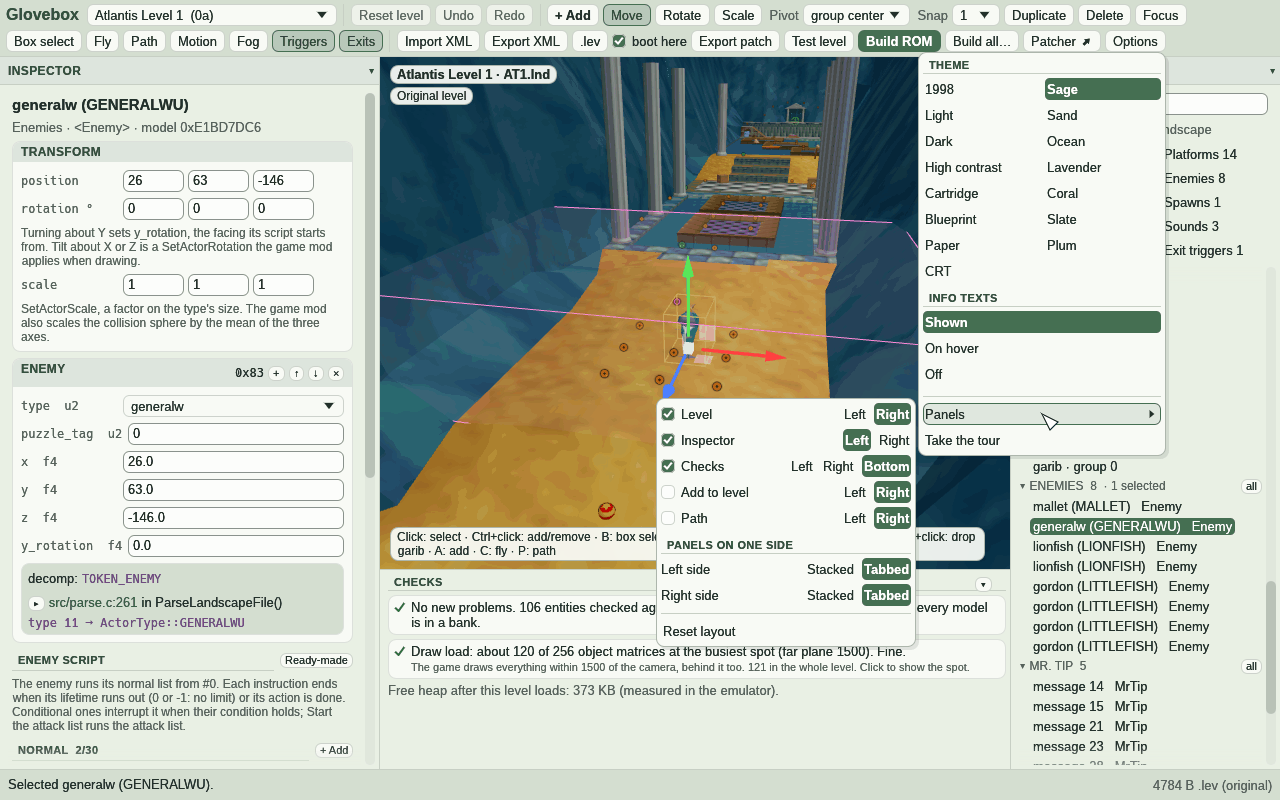
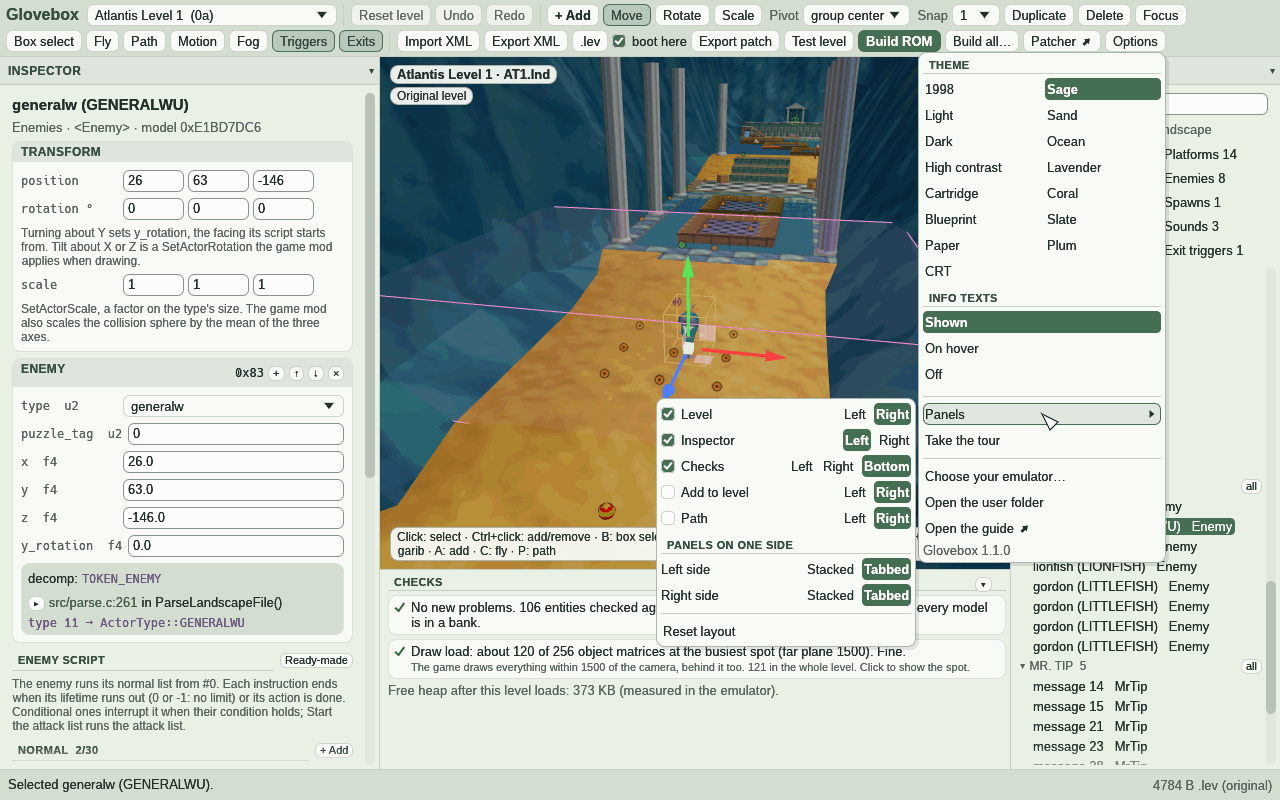
Docs for copy and paste, View all, the camera, Mr. Tip and Options

Changed region(s): [[0.7188, 0.5625, 0.9062, 0.7188]]

diff --git a/docs/technical.md b/docs/technical.md
@@ -404,6 +404,8 @@ nothing else. The program never runs them.
     level). The page shows its levels in the Level row and names the result after them.
   - The ROM step gets its check mark only for the ROM the patches are made for (or a browser that can't compute
     SHA-1). Another ROM gets the gray note, and the patch's CRC32 still decides.
+- A Build all ROM or patch is named after its levels (`build::all_name`): up to three by name, joined by "and",
+  then the first and how many more. The reference test still compares the older name, after the count.
 - **Build all** (`Dialog::BuildAll`) lists the edited levels. `Boot into` offers the checked ones and the title
   screen, and the window keeps the last choice (`Window::boot_into`). Its note on copied models is always shown.
   - Each kind of dialog is its own egui modal (`dialogs::dialog_id`). A modal keeps its size from its last showing,
@@ -584,6 +586,17 @@ the level it was made for, and the game loads that level's banks with it. Each p
   `Editor::level_size`, the size across of the landscape and platforms. The wheel zooms within it
   (`Orbit::dolly_within`): the camera stays between 1% and 3 times that size from the target. At the near end the
   wheel moves the target forward with the camera. `Orbit::dolly` is the old zoom, kept for the reference test.
+- **Home** frames the level whatever is selected ("View all").
+- **The camera per level**: leaving a level, and closing the app, keeps the camera's position and its target in the
+  settings (`camera_<level id>`, six numbers, `Editor::keep_camera`). The level opens there again, after
+  `frame_level`. A value that can't be read leaves the framed view.
+- **Copy and paste** (`Editor::copy_selection`, `Editor::paste`). egui hands Ctrl+C and Ctrl+V to the window as
+  `Event::Copy` and `Event::Paste`. The clipboard holds level XML: a `<Level>` with the open level's attributes and
+  the selected commands, picked as Duplicate picks them. A garib takes its group with only the selected garibs. A
+  paste goes through `sanitize_level_xml` like Import XML, then its commands go in before `EndLevelData`, and the
+  pasted objects move so their middle is where the view meets the ground and their lowest is on it. The insert and
+  the move are one undo step. A pasted platform whose `PlatSetTag` the level already uses loses it. Text that
+  doesn't start with `<` is left alone. Models from another level become imports, as any other.
 - **Esc** leaves the tool that's on, or clears the selection. An Esc that closes a list or a menu does only that
   (`egui::Popup::is_any_open` in `Window::keys`).
 - What each kind of object can store (the editor only writes what the game reads):
@@ -924,6 +937,11 @@ it too.
 - `+ Add` in an enemy script puts the new instruction before a last "Go to instruction" that always runs, or a last
   "End the attack": the game never gets past those. A new instruction with a point to go to or face
   (`destination_x/y/z`) gets the enemy's position plus 100 on x, not the level's origin.
+- An object farther from the landscape's box than 10 times the box's largest side, and at least 10,000 units, gets
+  the warning "far outside the level" (`Editor::far_checks`). It keeps the green "No new problems" line away. The
+  vanilla levels' farthest objects are about 5.6 sizes out (a Ball start of the Wayroom).
+  `no_vanilla_object_is_far_outside_its_level` (`crates/editor/tests/vanilla_rom.rs`) prints each level's farthest
+  object.
 - A check line of a puzzle that has no trigger box names the puzzle by its number and opens it
   (`Click::Puzzle`). The line about the game mod's rotations and scales names up to 3 of the objects and selects them
   all (`Click::SelectAll`). The green "No new problems" line also waits for the libgarib format check.
@@ -940,7 +958,23 @@ it too.
 - The emulator picker has no filter on Linux: "All files" alone adds none (`dialogs::Native`). rfd's zenity backend
   turns the filter `*` into `*.*`, which hides programs without an extension.
 - `settings.ini` is read once at the start and written whole at every change (`settings.rs`). An `emulator` line
-  deleted by hand while the app runs comes back. The docs say to close the editor first.
+  deleted by hand while the app runs comes back. The docs point to `Options` > `Choose your emulator…` instead.
+
+## Mr. Tip's text
+
+- The Inspector shows what a Mr. Tip says, in English, from the player's ROM (`gamedata::tip_text`,
+  `Backend::tip_text`). The game's table is `tipTextEnglish` in gloveworld, at ROM 0xEC538: pairs of a pointer to
+  a line and a type (0 a line, 1 the last line of a page, 2 the last line of a message). The pointers are RAM
+  addresses of the segment that starts at ROM 0x1000 and RAM 0x80100000. Message `message_id` is the one after
+  that many type-2 lines. A byte that isn't plain ASCII is a sign of the game's font, a button, and shows as "•".
+- The retail ROM has 67 messages. Every `message_id` of a vanilla level has one (`crates/core/tests/tips_rom.rs`).
+  The fixture gives a made-up line.
+
+## The Options menu's other entries
+
+- `Choose your emulator…` asks for the program and keeps it (`Window::choose_emulator`). `Open the user folder` and
+  `Open the guide ↗` open a `file://` and a web address through egui. The last line is the version
+  (`shell::VERSION`).
 
 ## File dialogs
 

diff --git a/docs/Using-the-editor.md b/docs/Using-the-editor.md
@@ -20,6 +20,8 @@ The first time a level opens, the editor asks if you want a quick tour
 - Pick a level in the list at the top. All 48 open
 - Drag to turn the camera, right-drag to pan, wheel (or middle-drag) to zoom
 - `F` frames the selection. With nothing selected it frames the whole level
+- `Home` frames the whole level
+- A level opens with the camera where you left it
 - Zooming in stops close to what you look at, then the wheel moves you forward. Zooming out stops a few level sizes away
 
 `Fly` (or `C`) switches to a free camera:
@@ -46,6 +48,7 @@ Note: while you fly, those keys move the camera. Use the toolbar for Move (`W`) 
 - Undo, redo, duplicate and delete work on the whole selection
 - A duplicated platform loses its puzzle tag (`PlatSetTag`), so the original's puzzles don't move the copy
 - Deleting a platform also deletes a puzzle whose actions only moved it, like a `Lift`'s
+- `Ctrl+C` copies the selection, `Ctrl+V` pastes it where the view looks at the ground, in any level. The clipboard holds level XML, and a paste gets the checks of `Import XML`
 
 An enemy's script points (where it goes and looks) and a platform's path move with it
 
@@ -343,7 +346,7 @@ Note: the path is only a guide, the level doesn't keep it
 
 ## Options
 
-`Options` in the toolbar has the theme, the info texts, the panels and `Take the tour`
+`Options` in the toolbar has the theme, the info texts, the panels and `Take the tour`. Under them: `Choose your emulator…`, `Open the user folder`, `Open the guide ↗` and the version
 
 ### Theme
 
@@ -418,7 +421,7 @@ Small gray texts explain how the game or the editor works. They belong to titles
 
 - The first time, pick your emulator's program (ares, simple64, Project64…)
 - The ROM goes in the user folder (`test/`)
-- To change the emulator, close the editor, then delete the `emulator` line in `settings.ini` in the user folder
+- To change the emulator, use `Options` > `Choose your emulator…`
 
 Note: a level that uses the game mod needs the emulator's Expansion Pak on _(most have it on)_
 

diff --git a/docs/guide/Options.md b/docs/guide/Options.md
@@ -4,7 +4,7 @@ _Back to the [guide](README.md)_
 
 `Options` is at the end of the toolbar.
 
-![The Options menu: fifteen themes in two columns, Shown, On hover, Off for the info texts, Panels and Take the tour](img/options-menu.png)
+![The Options menu: fifteen themes in two columns, Shown, On hover, Off for the info texts, Panels, Take the tour, Choose your emulator, Open the user folder, Open the guide and the version](img/options-menu.png)
 
 ## Theme
 
@@ -44,6 +44,13 @@ Small texts explain how the game or the editor works. They start `On hover`.
 ## Take the tour
 
 `Take the tour` walks you through the first start tour again. See _[Getting started](Getting-started.md#take-the-tour)_.
+
+## The rest
+
+- `Choose your emulator…` picks the program `Test level` opens
+- `Open the user folder` opens the folder with your edits, settings and `editor.log`
+- `Open the guide ↗` opens this guide
+- The last line is the app's version
 
 ---
 

diff --git a/docs/guide/Test-build-and-share.md b/docs/guide/Test-build-and-share.md
@@ -15,6 +15,7 @@ The bottom row of the toolbar has it all.
 - The first time, click `OK` then navigate to where your emulator is saved on your computer and select it.
 - After that, it's just one click.
 - The ROM goes in the user folder (`test/`).
+- Another emulator? `Options` > `Choose your emulator…`
 
 ## Build ROM
 
@@ -49,6 +50,8 @@ _[Sharing levels](../Sharing-levels.md)_ shows how players use it.
 <img src="img/build-all.png" alt="The Build all dialog: the edited levels, the level to boot into, Export .bps and Build ROM" width="560">
 
 Pick the level it boots into, or a normal start.
+
+The file gets named after the levels in it, like `glover-atlantis-level-1-and-atlantis-level-2.bps`.
 
 ## Level files
 

diff --git a/docs/guide/Selecting-and-moving.md b/docs/guide/Selecting-and-moving.md
@@ -65,7 +65,19 @@ With several objects selected the Inspector has `move by`, `rotate by` and `scal
 | Undo | `Ctrl+Z` |
 | Redo | `Ctrl+Shift+Z` or `Ctrl+Y` |
 | Duplicate | `Ctrl+D` |
+| Copy | `Ctrl+C` |
+| Paste | `Ctrl+V` |
 | Delete | `Del` |
+
+## Copy and paste
+
+Copy works across levels: copy in one level, open another, paste.
+
+- The copy lands where the middle of the view meets the ground
+- A paste is one undo step
+- A garib takes its group along, with only the garibs you picked
+- A pasted platform loses its puzzle tag when the level already has that tag
+- The clipboard holds level XML. Text from somewhere else gets the same checks as `Import XML`
 
 ---
 

diff --git a/docs/guide/Keys.md b/docs/guide/Keys.md
@@ -25,6 +25,7 @@ The line at the bottom of the view shows the main ones.
 | `E` | Rotate |
 | `R` | Scale |
 | `F` | Focus on the selection, or on the whole level with nothing selected |
+| `Home` | View all: the whole level |
 | `B` | Box select |
 | `A` | `+ Add` |
 | `P` | Path |
@@ -32,6 +33,8 @@ The line at the bottom of the view shows the main ones.
 | `T` | Test level |
 | `Ctrl+A` | Select everything visible, except landscape |
 | `Ctrl+D` | Duplicate |
+| `Ctrl+C` | Copy the selection |
+| `Ctrl+V` | Paste, also in another level |
 | `Del` or `Backspace` | Delete |
 | `Ctrl+Z` | Undo |
 | `Ctrl+Shift+Z` or `Ctrl+Y` | Redo |

diff --git a/docs/guide/Moving-around.md b/docs/guide/Moving-around.md
@@ -20,6 +20,12 @@ Select something, then press `F` (or `Focus`).
 
 The camera goes to the object and looks at it. Dragging now turns around that object.
 
+With nothing selected, `F` shows the whole level. `Home` always does.
+
+## Where the camera was
+
+Each level opens with the camera where you left it, also after you close the editor.
+
 ## Fly
 
 `Fly` (or `C`) gives you a free camera.

diff --git a/docs/guide/Checks.md b/docs/guide/Checks.md
@@ -19,6 +19,10 @@ In the `Level` panel, the name of an object with an error changes color.
 
 _[The reference](../Using-the-editor.md#checks)_ lists what gets checked.
 
+## Far outside the level
+
+An object far away from the rest of the level gets a warning. Click it to go there.
+
 ## Draw load
 
 The game draws everything within its far plane, even what's behind the camera.

diff --git a/docs/guide/Adding-things.md b/docs/guide/Adding-things.md
@@ -21,6 +21,8 @@ The new thing is selected, ready to move.
 | Tab | What's in it |
 | --- | --- |
 | `Collectables` | Garibs, every powerup, Mr. Tip |
+
+Select a Mr. Tip and the Inspector shows what he says. Change his `message_id` for another message
 | `Enemies` | All 52 types |
 | `Models` | All 1,522 models in the game, and your own |
 | `Kit` | Custom pre-made props |
